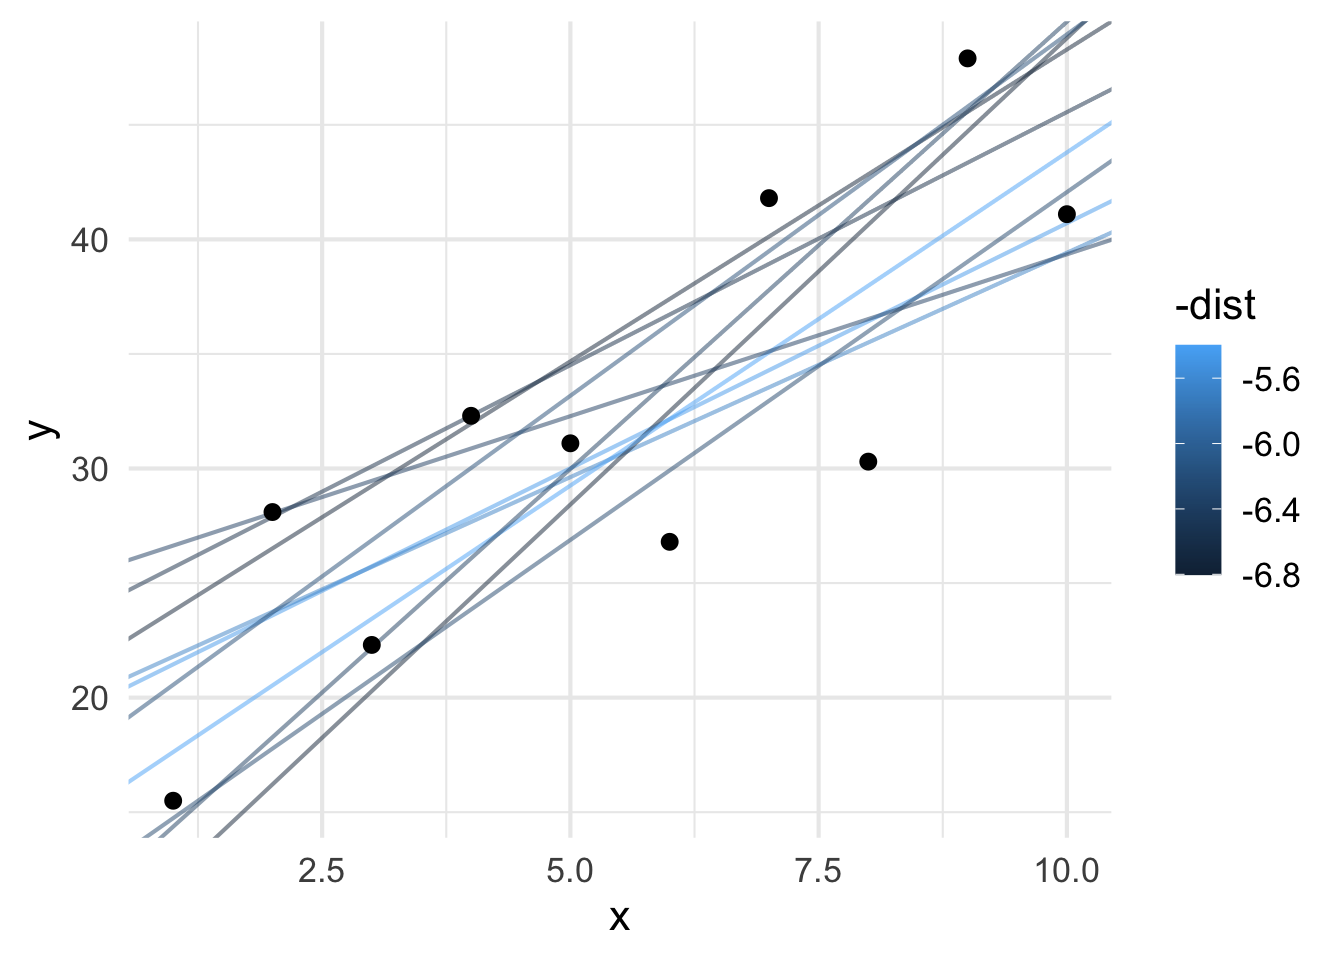
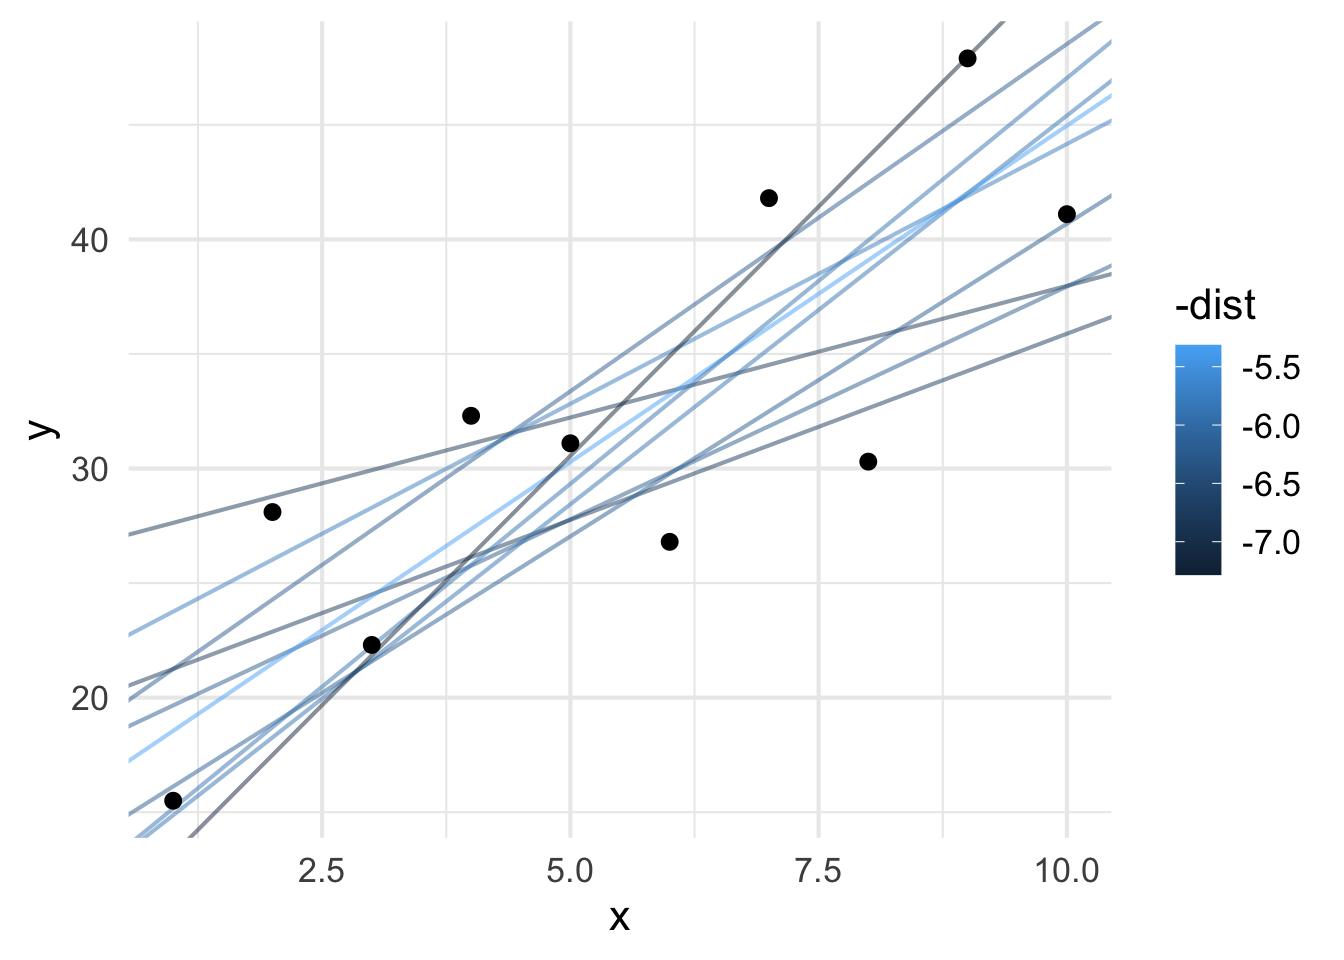
built for latest content

Changed region(s): [[0.0938, 0.0, 0.8438, 0.875], [0.9062, 0.375, 0.9688, 0.625]]

diff --git a/docs/narrative.html b/docs/narrative.html
@@ -185,12 +185,12 @@ y_{ij} = \beta_0 + \beta_1 x_{i} + \epsilon_j
 <span id="cb3-3"><a href="#cb3-3" aria-hidden="true" tabindex="-1"></a><span class="fu">summary</span>( models )</span></code></pre></div><button title="Copy to Clipboard" class="code-copy-button"><i class="bi"></i></button></div>
 <div class="cell-output cell-output-stdout">
 <pre><code>     beta0             beta1         
- Min.   :-19.427   Min.   :-4.96299  
- 1st Qu.: -5.634   1st Qu.:-2.15912  
- Median :  8.216   Median : 0.25542  
- Mean   :  8.882   Mean   : 0.08405  
- 3rd Qu.: 21.305   3rd Qu.: 2.44190  
- Max.   : 39.405   Max.   : 4.99179  </code></pre>
+ Min.   :-19.951   Min.   :-4.96942  
+ 1st Qu.: -5.187   1st Qu.:-2.31318  
+ Median : 13.883   Median : 0.22807  
+ Mean   : 11.657   Mean   : 0.07026  
+ 3rd Qu.: 27.803   3rd Qu.: 2.67182  
+ Max.   : 39.978   Max.   : 4.98819  </code></pre>
 </div>
 </div>
 <p>We can plot these and the original data and all these randomly defined models.</p>
@@ -241,13 +241,13 @@ y_{ij} = \beta_0 + \beta_1 x_{i} + \epsilon_j
 <span id="cb7-7"><a href="#cb7-7" aria-hidden="true" tabindex="-1"></a>}</span>
 <span id="cb7-8"><a href="#cb7-8" aria-hidden="true" tabindex="-1"></a><span class="fu">head</span>( models )</span></code></pre></div><button title="Copy to Clipboard" class="code-copy-button"><i class="bi"></i></button></div>
 <div class="cell-output cell-output-stdout">
-<pre><code>      beta0      beta1      dist
-1  32.72714  3.6649825 22.007072
-2  32.62498 -3.8083793 27.759799
-3  21.44344  1.1711823  7.721005
-4  17.88130 -2.5730585 32.154006
-5  16.36595 -1.9299389 29.547134
-6 -16.02425 -0.8301046 53.500356</code></pre>
+<pre><code>       beta0      beta1     dist
+1  0.8745899  1.9227792 21.03354
+2  7.9873968 -0.3275816 27.41172
+3 -9.8461607 -1.2364811 49.89841
+4 -9.8419861  3.8677641 21.25666
+5 14.2331312 -0.6342670 23.56026
+6 -0.7662101  3.5074045 14.42207</code></pre>
 </div>
 </div>
 <p>If we look through these models, we can see which are better than others by sorting in increasing squared distance.</p>
@@ -864,42 +864,42 @@ y = \beta_0 + \beta_1 x_1 + \beta_2 x_2 + \beta_3 x_3 + \epsilon
 </tr>
 <tr class="even">
 <td style="text-align: left;">Ozone ~ Temp + Wind + Solar + 1 Random Variables</td>
-<td style="text-align: right;">0.6070</td>
+<td style="text-align: right;">0.6068</td>
 <td style="text-align: right;">0e+00</td>
 </tr>
 <tr class="odd">
 <td style="text-align: left;">Ozone ~ Temp + Wind + Solar + 2 Random Variables</td>
-<td style="text-align: right;">0.6071</td>
+<td style="text-align: right;">0.6129</td>
 <td style="text-align: right;">0e+00</td>
 </tr>
 <tr class="even">
 <td style="text-align: left;">Ozone ~ Temp + Wind + Solar + 3 Random Variables</td>
-<td style="text-align: right;">0.6100</td>
-<td style="text-align: right;">0e+00</td>
-</tr>
-<tr class="odd">
-<td style="text-align: left;">Ozone ~ Temp + Wind + Solar + 4 Random Variables</td>
-<td style="text-align: right;">0.6121</td>
-<td style="text-align: right;">0e+00</td>
-</tr>
-<tr class="even">
-<td style="text-align: left;">Ozone ~ Temp + Wind + Solar + 5 Random Variables</td>
 <td style="text-align: right;">0.6136</td>
 <td style="text-align: right;">0e+00</td>
 </tr>
 <tr class="odd">
+<td style="text-align: left;">Ozone ~ Temp + Wind + Solar + 4 Random Variables</td>
+<td style="text-align: right;">0.6255</td>
+<td style="text-align: right;">0e+00</td>
+</tr>
+<tr class="even">
+<td style="text-align: left;">Ozone ~ Temp + Wind + Solar + 5 Random Variables</td>
+<td style="text-align: right;">0.6261</td>
+<td style="text-align: right;">0e+00</td>
+</tr>
+<tr class="odd">
 <td style="text-align: left;">Ozone ~ Temp + Wind + Solar + 6 Random Variables</td>
-<td style="text-align: right;">0.6138</td>
+<td style="text-align: right;">0.6312</td>
 <td style="text-align: right;">0e+00</td>
 </tr>
 <tr class="even">
 <td style="text-align: left;">Ozone ~ Temp + Wind + Solar + 7 Random Variables</td>
-<td style="text-align: right;">0.6143</td>
+<td style="text-align: right;">0.6313</td>
 <td style="text-align: right;">0e+00</td>
 </tr>
 <tr class="odd">
 <td style="text-align: left;">Ozone ~ Temp + Wind + Solar + 8 Random Variables</td>
-<td style="text-align: right;">0.6187</td>
+<td style="text-align: right;">0.6474</td>
 <td style="text-align: right;">0e+00</td>
 </tr>
 </tbody>
@@ -993,50 +993,50 @@ AIC = -2 \ln L + 2p
 <tr class="even">
 <td style="text-align: left;">Ozone ~ Temp + Wind + Solar + 1 Random Variables</td>
 <td style="text-align: right;">0.607</td>
-<td style="text-align: right;">1000.398</td>
-<td style="text-align: right;">1.681</td>
+<td style="text-align: right;">1000.474</td>
+<td style="text-align: right;">1.757</td>
 </tr>
 <tr class="odd">
 <td style="text-align: left;">Ozone ~ Temp + Wind + Solar + 2 Random Variables</td>
-<td style="text-align: right;">0.607</td>
-<td style="text-align: right;">1002.368</td>
-<td style="text-align: right;">3.650</td>
+<td style="text-align: right;">0.613</td>
+<td style="text-align: right;">1000.726</td>
+<td style="text-align: right;">2.009</td>
 </tr>
 <tr class="even">
 <td style="text-align: left;">Ozone ~ Temp + Wind + Solar + 3 Random Variables</td>
-<td style="text-align: right;">0.610</td>
-<td style="text-align: right;">1003.543</td>
-<td style="text-align: right;">4.826</td>
+<td style="text-align: right;">0.614</td>
+<td style="text-align: right;">1002.539</td>
+<td style="text-align: right;">3.822</td>
 </tr>
 <tr class="odd">
 <td style="text-align: left;">Ozone ~ Temp + Wind + Solar + 4 Random Variables</td>
-<td style="text-align: right;">0.612</td>
-<td style="text-align: right;">1004.965</td>
-<td style="text-align: right;">6.248</td>
+<td style="text-align: right;">0.626</td>
+<td style="text-align: right;">1001.051</td>
+<td style="text-align: right;">2.334</td>
 </tr>
 <tr class="even">
 <td style="text-align: left;">Ozone ~ Temp + Wind + Solar + 5 Random Variables</td>
-<td style="text-align: right;">0.614</td>
-<td style="text-align: right;">1006.519</td>
-<td style="text-align: right;">7.801</td>
+<td style="text-align: right;">0.626</td>
+<td style="text-align: right;">1002.869</td>
+<td style="text-align: right;">4.151</td>
 </tr>
 <tr class="odd">
 <td style="text-align: left;">Ozone ~ Temp + Wind + Solar + 6 Random Variables</td>
-<td style="text-align: right;">0.614</td>
-<td style="text-align: right;">1008.454</td>
-<td style="text-align: right;">9.737</td>
+<td style="text-align: right;">0.631</td>
+<td style="text-align: right;">1003.338</td>
+<td style="text-align: right;">4.620</td>
 </tr>
 <tr class="even">
 <td style="text-align: left;">Ozone ~ Temp + Wind + Solar + 7 Random Variables</td>
-<td style="text-align: right;">0.614</td>
-<td style="text-align: right;">1010.321</td>
-<td style="text-align: right;">11.604</td>
+<td style="text-align: right;">0.631</td>
+<td style="text-align: right;">1005.320</td>
+<td style="text-align: right;">6.603</td>
 </tr>
 <tr class="odd">
 <td style="text-align: left;">Ozone ~ Temp + Wind + Solar + 8 Random Variables</td>
-<td style="text-align: right;">0.619</td>
-<td style="text-align: right;">1011.038</td>
-<td style="text-align: right;">12.321</td>
+<td style="text-align: right;">0.647</td>
+<td style="text-align: right;">1002.374</td>
+<td style="text-align: right;">3.657</td>
 </tr>
 </tbody>
 </table>

diff --git a/docs/slides.html b/docs/slides.html
@@ -246,12 +246,12 @@ y = \beta_0 + \beta_1 x_1 + \epsilon
 <span id="cb1-3"><a href=""></a><span class="fu">summary</span>( models )</span></code></pre></div><button title="Copy to Clipboard" class="code-copy-button"><i class="bi"></i></button></div>
 <div class="cell-output cell-output-stdout">
 <pre><code>     beta0             beta1         
- Min.   :-19.188   Min.   :-4.96273  
- 1st Qu.: -4.465   1st Qu.:-2.51419  
- Median : 10.441   Median :-0.03530  
- Mean   : 10.979   Mean   : 0.01682  
- 3rd Qu.: 26.292   3rd Qu.: 2.29662  
- Max.   : 39.856   Max.   : 4.89018  </code></pre>
+ Min.   :-19.951   Min.   :-4.96226  
+ 1st Qu.: -3.904   1st Qu.:-2.49086  
+ Median :  7.790   Median : 0.23550  
+ Mean   :  9.361   Mean   : 0.05219  
+ 3rd Qu.: 23.210   3rd Qu.: 2.33150  
+ Max.   : 39.820   Max.   : 4.96133  </code></pre>
 </div>
 </div>
 </div><div class="column" style="width:50%;">
@@ -294,13 +294,13 @@ y = \beta_0 + \beta_1 x_1 + \epsilon
 <span id="cb4-7"><a href=""></a>}</span>
 <span id="cb4-8"><a href=""></a><span class="fu">head</span>( models )</span></code></pre></div><button title="Copy to Clipboard" class="code-copy-button"><i class="bi"></i></button></div>
 <div class="cell-output cell-output-stdout">
-<pre><code>      beta0       beta1      dist
-1 32.075061 -0.96873753 12.600168
-2 28.011353  2.13271803  9.685172
-3  5.431701  3.93397809  7.951093
-4 33.343581 -0.96402982 12.136166
-5 18.971824  4.22441688 12.590057
-6  4.277446 -0.01524741 29.029150</code></pre>
+<pre><code>      beta0      beta1      dist
+1 -9.581954 -0.7551355 46.775181
+2 22.275675  3.6879620 12.420382
+3 -2.855066  4.1663366 13.528007
+4 35.011662 -2.4877622 18.738407
+5 19.383766  3.0629886  7.027057
+6  3.549016  2.2618407 16.613519</code></pre>
 </div>
 </div>
 </section>
@@ -921,35 +921,35 @@ y = \beta_0 + \beta_1 x_1 + \epsilon
 <tbody>
 <tr class="odd">
 <td style="text-align: left;">Ozone ~ Temp + Wind + Solar + 1 Random Variables</td>
-<td style="text-align: left;">0.6075</td>
+<td style="text-align: left;">0.6059</td>
 </tr>
 <tr class="even">
 <td style="text-align: left;">Ozone ~ Temp + Wind + Solar + 2 Random Variables</td>
-<td style="text-align: left;">0.6111</td>
+<td style="text-align: left;">0.6059</td>
 </tr>
 <tr class="odd">
 <td style="text-align: left;">Ozone ~ Temp + Wind + Solar + 3 Random Variables</td>
-<td style="text-align: left;">0.6112</td>
+<td style="text-align: left;">0.6087</td>
 </tr>
 <tr class="even">
 <td style="text-align: left;">Ozone ~ Temp + Wind + Solar + 4 Random Variables</td>
-<td style="text-align: left;">0.6280</td>
+<td style="text-align: left;">0.6099</td>
 </tr>
 <tr class="odd">
 <td style="text-align: left;">Ozone ~ Temp + Wind + Solar + 5 Random Variables</td>
-<td style="text-align: left;">0.6293</td>
+<td style="text-align: left;">0.6099</td>
 </tr>
 <tr class="even">
 <td style="text-align: left;">Ozone ~ Temp + Wind + Solar + 6 Random Variables</td>
-<td style="text-align: left;">0.6298</td>
+<td style="text-align: left;">0.6103</td>
 </tr>
 <tr class="odd">
 <td style="text-align: left;">Ozone ~ Temp + Wind + Solar + 7 Random Variables</td>
-<td style="text-align: left;">0.6329</td>
+<td style="text-align: left;">0.6118</td>
 </tr>
 <tr class="even">
 <td style="text-align: left;">Ozone ~ Temp + Wind + Solar + 8 Random Variables</td>
-<td style="text-align: left;">0.6465</td>
+<td style="text-align: left;">0.6196</td>
 </tr>
 </tbody>
 </table>
@@ -1039,51 +1039,51 @@ y = \beta_0 + \beta_1 x_1 + \epsilon
 </tr>
 <tr class="even">
 <td style="text-align: left;">Ozone ~ Temp + Wind + Solar + 1 Random Variables</td>
-<td style="text-align: right;">0.608</td>
-<td style="text-align: right;">1000.257</td>
-<td style="text-align: right;">1.540</td>
+<td style="text-align: right;">0.606</td>
+<td style="text-align: right;">1000.709</td>
+<td style="text-align: right;">1.992</td>
 </tr>
 <tr class="odd">
 <td style="text-align: left;">Ozone ~ Temp + Wind + Solar + 2 Random Variables</td>
-<td style="text-align: right;">0.611</td>
-<td style="text-align: right;">1001.230</td>
-<td style="text-align: right;">2.513</td>
+<td style="text-align: right;">0.606</td>
+<td style="text-align: right;">1002.706</td>
+<td style="text-align: right;">3.989</td>
 </tr>
 <tr class="even">
 <td style="text-align: left;">Ozone ~ Temp + Wind + Solar + 3 Random Variables</td>
-<td style="text-align: right;">0.611</td>
-<td style="text-align: right;">1003.198</td>
-<td style="text-align: right;">4.481</td>
+<td style="text-align: right;">0.609</td>
+<td style="text-align: right;">1003.933</td>
+<td style="text-align: right;">5.216</td>
 </tr>
 <tr class="odd">
 <td style="text-align: left;">Ozone ~ Temp + Wind + Solar + 4 Random Variables</td>
-<td style="text-align: right;">0.628</td>
-<td style="text-align: right;">1000.323</td>
-<td style="text-align: right;">1.606</td>
+<td style="text-align: right;">0.610</td>
+<td style="text-align: right;">1005.581</td>
+<td style="text-align: right;">6.864</td>
 </tr>
 <tr class="even">
 <td style="text-align: left;">Ozone ~ Temp + Wind + Solar + 5 Random Variables</td>
-<td style="text-align: right;">0.629</td>
-<td style="text-align: right;">1001.917</td>
-<td style="text-align: right;">3.200</td>
+<td style="text-align: right;">0.610</td>
+<td style="text-align: right;">1007.578</td>
+<td style="text-align: right;">8.861</td>
 </tr>
 <tr class="odd">
 <td style="text-align: left;">Ozone ~ Temp + Wind + Solar + 6 Random Variables</td>
-<td style="text-align: right;">0.630</td>
-<td style="text-align: right;">1003.766</td>
-<td style="text-align: right;">5.049</td>
+<td style="text-align: right;">0.610</td>
+<td style="text-align: right;">1009.476</td>
+<td style="text-align: right;">10.758</td>
 </tr>
 <tr class="even">
 <td style="text-align: left;">Ozone ~ Temp + Wind + Solar + 7 Random Variables</td>
-<td style="text-align: right;">0.633</td>
-<td style="text-align: right;">1004.835</td>
-<td style="text-align: right;">6.118</td>
+<td style="text-align: right;">0.612</td>
+<td style="text-align: right;">1011.035</td>
+<td style="text-align: right;">12.318</td>
 </tr>
 <tr class="odd">
 <td style="text-align: left;">Ozone ~ Temp + Wind + Solar + 8 Random Variables</td>
-<td style="text-align: right;">0.647</td>
-<td style="text-align: right;">1002.641</td>
-<td style="text-align: right;">3.924</td>
+<td style="text-align: right;">0.620</td>
+<td style="text-align: right;">1010.784</td>
+<td style="text-align: right;">12.067</td>
 </tr>
 </tbody>
 </table>
